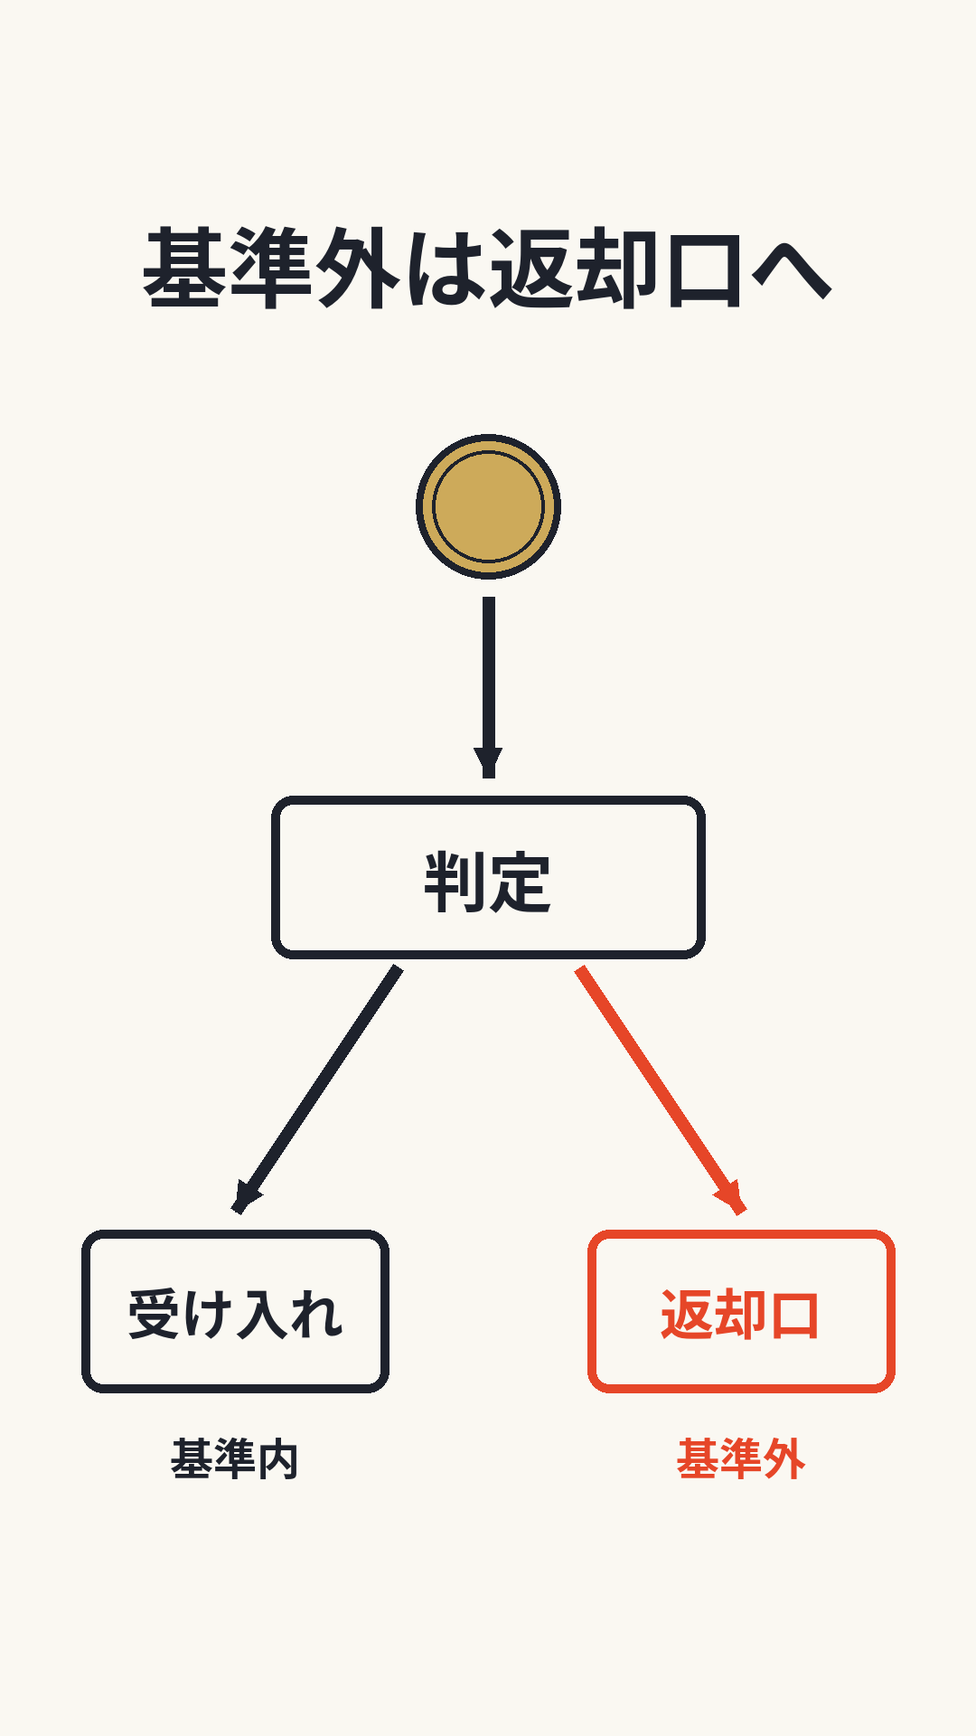
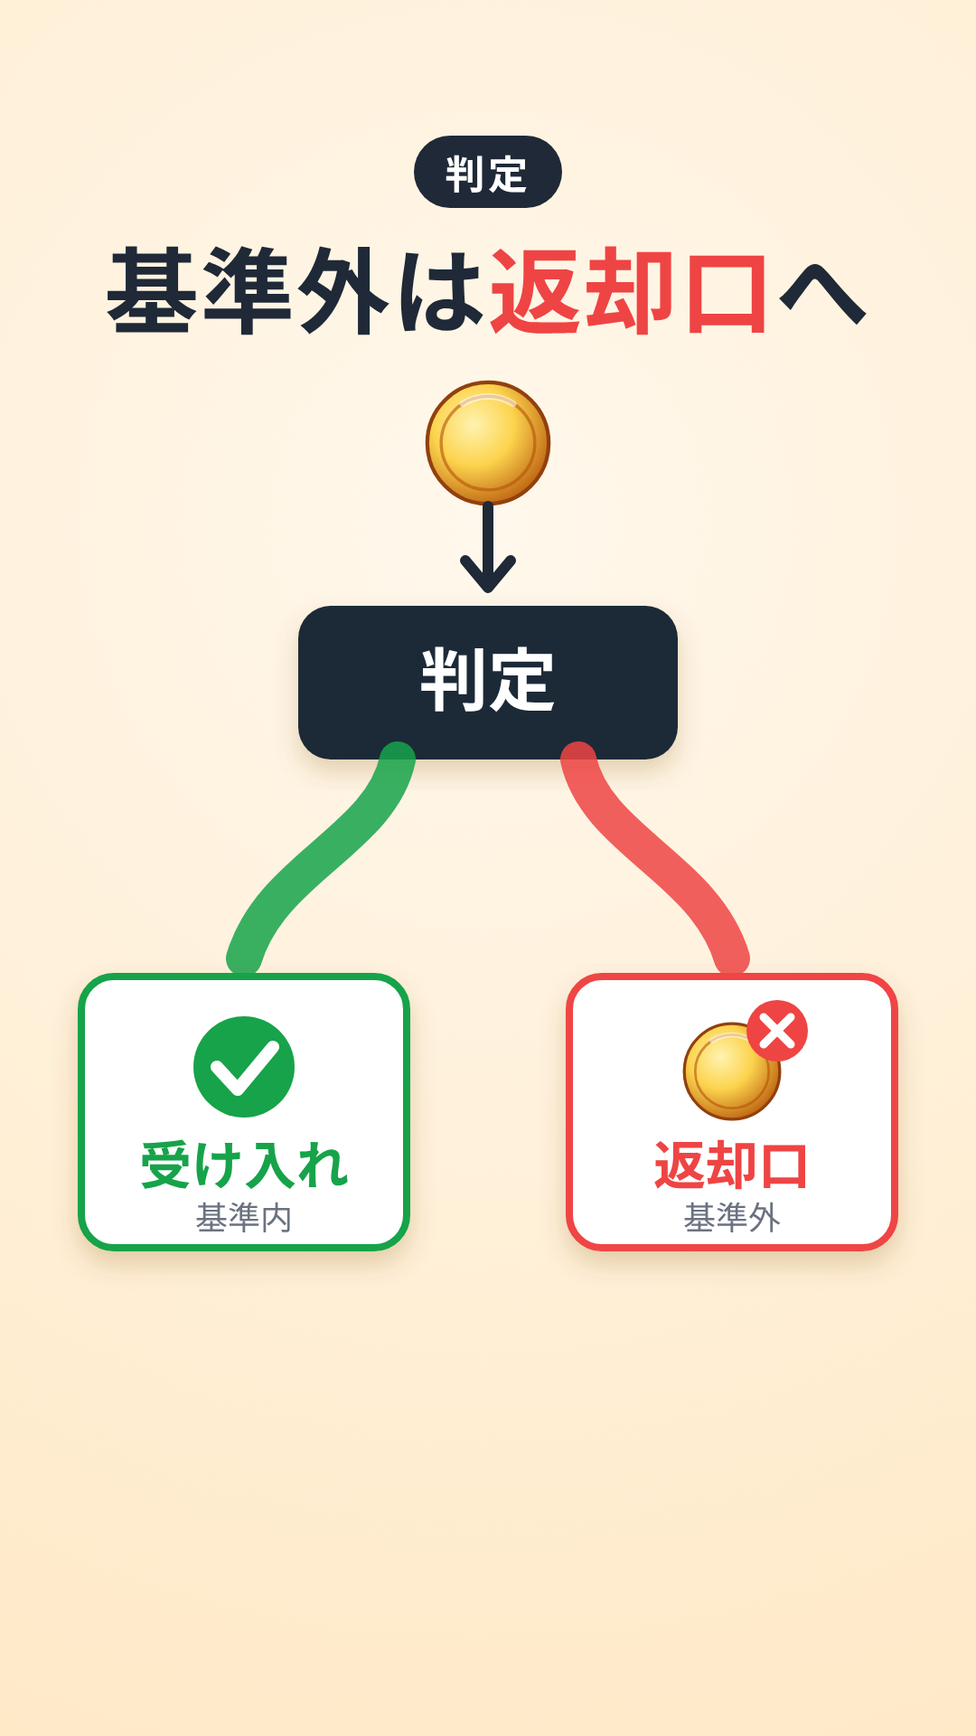
図解をHTML/SVG描画に変更して質を改善、部門の合格基準と音声確認の関門を追加
Claude-Session: https://claude.ai/code/session_012FUevStteJV7VRepsubg93

diff --git a/scripts/figures/v001/fig3_coil.html b/scripts/figures/v001/fig3_coil.html
@@ -1,0 +1,37 @@
+<!doctype html><html><head><meta charset="utf-8"><link rel="stylesheet" href="../style.css"></head><body>
+<div class="head"><div class="step">検査 2</div><div class="title">磁界で<em>材質</em>を見る</div></div>
+<svg width="1080" height="1920"><defs>
+<radialGradient id="coin" cx="38%" cy="35%" r="75%"><stop offset="0" stop-color="#FFF3B0"/><stop offset=".45" stop-color="var(--gold1)"/><stop offset="1" stop-color="var(--gold2)"/></radialGradient>
+<linearGradient id="metal" x1="0" y1="0" x2="0" y2="1"><stop offset="0" stop-color="#E5E7EB"/><stop offset="1" stop-color="#9CA3AF"/></linearGradient>
+<linearGradient id="copper" x1="0" y1="0" x2="0" y2="1"><stop offset="0" stop-color="#FDBA74"/><stop offset=".5" stop-color="var(--copper1)"/><stop offset="1" stop-color="var(--copper2)"/></linearGradient>
+<filter id="sh" x="-20%" y="-20%" width="140%" height="140%"><feDropShadow dx="0" dy="14" stdDeviation="14" flood-color="#7c4a03" flood-opacity=".22"/></filter>
+<symbol id="c" viewBox="-100 -100 200 200"><circle r="96" fill="url(#coin)" stroke="#92400E" stroke-width="6"/><circle r="74" fill="none" stroke="#B45309" stroke-width="5" opacity=".6"/><path d="M-40,-62 A74,74 0 0 1 40,-62" stroke="#fff" stroke-width="10" fill="none" opacity=".55" stroke-linecap="round"/></symbol>
+</defs>
+<!-- 磁界の線 -->
+<g fill="none" stroke="var(--blue)" stroke-width="6" stroke-dasharray="18 14" opacity=".75">
+ <ellipse cx="540" cy="820" rx="210" ry="200"/><ellipse cx="540" cy="820" rx="300" ry="270"/><ellipse cx="540" cy="820" rx="390" ry="330"/>
+</g>
+<!-- 通路 -->
+<rect x="60" y="790" width="960" height="60" rx="12" fill="url(#metal)" stroke="#6B7280" stroke-width="4"/>
+<!-- コイル（銅線を巻いた形） -->
+<g filter="url(#sh)">
+ <rect x="400" y="740" width="280" height="160" rx="20" fill="#78350F" opacity=".25"/>
+</g>
+<g stroke-linecap="round" fill="none"><path d="M420,725 L420,915" stroke="#B45309" stroke-width="30"/><path d="M414,735 L414,905" stroke="#FCD34D" stroke-width="8" opacity=".8"/><path d="M460,725 L460,915" stroke="#B45309" stroke-width="30"/><path d="M454,735 L454,905" stroke="#FCD34D" stroke-width="8" opacity=".8"/><path d="M500,725 L500,915" stroke="#B45309" stroke-width="30"/><path d="M494,735 L494,905" stroke="#FCD34D" stroke-width="8" opacity=".8"/><path d="M540,725 L540,915" stroke="#B45309" stroke-width="30"/><path d="M534,735 L534,905" stroke="#FCD34D" stroke-width="8" opacity=".8"/><path d="M580,725 L580,915" stroke="#B45309" stroke-width="30"/><path d="M574,735 L574,905" stroke="#FCD34D" stroke-width="8" opacity=".8"/><path d="M620,725 L620,915" stroke="#B45309" stroke-width="30"/><path d="M614,735 L614,905" stroke="#FCD34D" stroke-width="8" opacity=".8"/><path d="M660,725 L660,915" stroke="#B45309" stroke-width="30"/><path d="M654,735 L654,905" stroke="#FCD34D" stroke-width="8" opacity=".8"/></g>
+<g filter="url(#sh)"><rect x="740" y="590" width="210" height="70" rx="16" fill="#fff"/></g>
+<text x="845" y="640" text-anchor="middle" class="tag" fill="var(--copper2)">コイル</text>
+<path d="M760,660 L680,725" stroke="var(--copper2)" stroke-width="6"/>
+<text x="900" y="520" text-anchor="middle" class="tag" fill="var(--blue)">磁界</text>
+<!-- 近づく硬貨 -->
+<g stroke="#D97706" stroke-width="10" stroke-linecap="round" opacity=".5"><line x1="70" y1="700" x2="160" y2="700"/><line x1="90" y1="740" x2="170" y2="740"/></g>
+<use href="#c" x="180" y="640" width="170" height="170"/>
+<!-- 変化のイメージ -->
+<g filter="url(#sh)"><rect x="80" y="1100" width="430" height="310" rx="32" fill="#fff"/><rect x="570" y="1100" width="430" height="310" rx="32" fill="#fff"/></g>
+<rect x="130" y="1240" width="330" height="70" fill="#DCFCE7"/><rect x="620" y="1240" width="330" height="70" fill="#DCFCE7"/>
+<path d="M130,1350 C200,1350 230,1270 295,1270 C360,1270 390,1350 460,1350" fill="none" stroke="#16A34A" stroke-width="10" stroke-linecap="round"/>
+<path d="M620,1350 C690,1350 720,1180 785,1180 C850,1180 880,1350 950,1350" fill="none" stroke="var(--accent)" stroke-width="10" stroke-linecap="round"/>
+<text x="295" y="1185" text-anchor="middle" class="tag" fill="#16A34A">本物</text>
+<text x="785" y="1170" text-anchor="middle" font-size="40" font-weight="900" fill="var(--accent)">別の金属</text>
+<text x="540" y="1460" text-anchor="middle" font-size="36" fill="var(--muted)">変化の形はイメージ（電子式の選別装置の例）</text>
+</svg>
+</body></html>

diff --git a/scripts/figures/v001/fig1_question.html b/scripts/figures/v001/fig1_question.html
@@ -1,0 +1,36 @@
+<!doctype html><html><head><meta charset="utf-8"><link rel="stylesheet" href="../style.css"></head><body>
+<div class="head"><div class="title">なぜ<em>戻ってくる</em>？</div></div>
+<svg width="1080" height="1920"><defs>
+<radialGradient id="coin" cx="38%" cy="35%" r="75%"><stop offset="0" stop-color="#FFF3B0"/><stop offset=".45" stop-color="var(--gold1)"/><stop offset="1" stop-color="var(--gold2)"/></radialGradient>
+<linearGradient id="metal" x1="0" y1="0" x2="0" y2="1"><stop offset="0" stop-color="#E5E7EB"/><stop offset="1" stop-color="#9CA3AF"/></linearGradient>
+<linearGradient id="copper" x1="0" y1="0" x2="0" y2="1"><stop offset="0" stop-color="#FDBA74"/><stop offset=".5" stop-color="var(--copper1)"/><stop offset="1" stop-color="var(--copper2)"/></linearGradient>
+<filter id="sh" x="-20%" y="-20%" width="140%" height="140%"><feDropShadow dx="0" dy="14" stdDeviation="14" flood-color="#7c4a03" flood-opacity=".22"/></filter>
+<symbol id="c" viewBox="-100 -100 200 200"><circle r="96" fill="url(#coin)" stroke="#92400E" stroke-width="6"/><circle r="74" fill="none" stroke="#B45309" stroke-width="5" opacity=".6"/><path d="M-40,-62 A74,74 0 0 1 40,-62" stroke="#fff" stroke-width="10" fill="none" opacity=".55" stroke-linecap="round"/></symbol>
+</defs>
+<g filter="url(#sh)">
+ <rect x="200" y="430" width="560" height="960" rx="46" fill="#DC2626"/>
+ <rect x="200" y="430" width="560" height="960" rx="46" fill="url(#metal)" opacity=".08"/>
+ <rect x="240" y="470" width="480" height="470" rx="24" fill="#F8FAFC"/>
+</g>
+<!-- 商品見本（ロゴなし） -->
+<g>
+ <g transform="translate(290,520)"><rect width="70" height="150" rx="22" fill="#38BDF8"/><rect x="18" y="-26" width="34" height="30" rx="8" fill="#0EA5E9"/><rect x="0" y="55" width="70" height="40" fill="#fff" opacity=".7"/></g>
+ <g transform="translate(400,520)"><rect width="70" height="150" rx="22" fill="#F97316"/><rect x="18" y="-26" width="34" height="30" rx="8" fill="#EA580C"/><rect x="0" y="55" width="70" height="40" fill="#fff" opacity=".7"/></g>
+ <g transform="translate(510,520)"><rect width="70" height="150" rx="22" fill="#22C55E"/><rect x="18" y="-26" width="34" height="30" rx="8" fill="#16A34A"/><rect x="0" y="55" width="70" height="40" fill="#fff" opacity=".7"/></g>
+ <g transform="translate(620,520)"><rect width="70" height="150" rx="22" fill="#A855F7"/><rect x="18" y="-26" width="34" height="30" rx="8" fill="#9333EA"/><rect x="0" y="55" width="70" height="40" fill="#fff" opacity=".7"/></g>
+ <g fill="#94A3B8"><circle cx="325" cy="710" r="14"/><circle cx="435" cy="710" r="14"/><circle cx="545" cy="710" r="14"/><circle cx="655" cy="710" r="14"/></g>
+ <rect x="270" y="760" width="420" height="140" rx="18" fill="#E2E8F0"/>
+ <text x="480" y="848" text-anchor="middle" font-size="44" font-weight="900" fill="#64748B">ドリンク</text>
+</g>
+<!-- 投入口・返却口 -->
+<rect x="600" y="990" width="110" height="140" rx="16" fill="#1F2937"/>
+<rect x="640" y="1015" width="30" height="90" rx="10" fill="#F59E0B"/>
+<rect x="560" y="1190" width="170" height="110" rx="20" fill="#111827"/>
+<rect x="575" y="1205" width="140" height="60" rx="12" fill="#374151"/>
+<!-- 戻ってきた硬貨 -->
+<g stroke="var(--accent)" stroke-width="12" stroke-linecap="round"><line x1="770" y1="1170" x2="820" y2="1140"/><line x1="790" y1="1230" x2="850" y2="1225"/><line x1="770" y1="1290" x2="820" y2="1315"/></g>
+<use href="#c" x="840" y="1150" width="150" height="150" transform="rotate(-12 915 1225)"/>
+<!-- 吹き出し -->
+<g filter="url(#sh)"><circle cx="890" cy="900" r="110" fill="#fff"/><path d="M840,995 L870,1060 L905,1000 Z" fill="#fff"/></g>
+<text x="890" y="945" text-anchor="middle" font-size="130" font-weight="900" fill="var(--accent)">?</text>
+</svg></body></html>

diff --git a/scripts/figures/v001/fig4_sort.html b/scripts/figures/v001/fig4_sort.html
@@ -1,0 +1,28 @@
+<!doctype html><html><head><meta charset="utf-8"><link rel="stylesheet" href="../style.css"></head><body>
+<div class="head"><div class="step">判定</div><div class="title">基準外は<em>返却口</em>へ</div></div>
+<svg width="1080" height="1920"><defs>
+<radialGradient id="coin" cx="38%" cy="35%" r="75%"><stop offset="0" stop-color="#FFF3B0"/><stop offset=".45" stop-color="var(--gold1)"/><stop offset="1" stop-color="var(--gold2)"/></radialGradient>
+<linearGradient id="metal" x1="0" y1="0" x2="0" y2="1"><stop offset="0" stop-color="#E5E7EB"/><stop offset="1" stop-color="#9CA3AF"/></linearGradient>
+<linearGradient id="copper" x1="0" y1="0" x2="0" y2="1"><stop offset="0" stop-color="#FDBA74"/><stop offset=".5" stop-color="var(--copper1)"/><stop offset="1" stop-color="var(--copper2)"/></linearGradient>
+<filter id="sh" x="-20%" y="-20%" width="140%" height="140%"><feDropShadow dx="0" dy="14" stdDeviation="14" flood-color="#7c4a03" flood-opacity=".22"/></filter>
+<symbol id="c" viewBox="-100 -100 200 200"><circle r="96" fill="url(#coin)" stroke="#92400E" stroke-width="6"/><circle r="74" fill="none" stroke="#B45309" stroke-width="5" opacity=".6"/><path d="M-40,-62 A74,74 0 0 1 40,-62" stroke="#fff" stroke-width="10" fill="none" opacity=".55" stroke-linecap="round"/></symbol>
+</defs>
+<use href="#c" x="470" y="420" width="140" height="140"/>
+<path d="M540,560 L540,640" stroke="var(--ink)" stroke-width="12" stroke-linecap="round"/><path d="M515,620 L540,650 L565,620" fill="none" stroke="var(--ink)" stroke-width="12" stroke-linecap="round" stroke-linejoin="round"/>
+<g filter="url(#sh)"><rect x="330" y="670" width="420" height="170" rx="36" fill="var(--ink)"/></g>
+<text x="540" y="780" text-anchor="middle" font-size="76" font-weight="900" fill="#fff">判定</text>
+<!-- 分かれ道 -->
+<path d="M440,840 C420,930 300,960 270,1060" fill="none" stroke="#16A34A" stroke-width="40" stroke-linecap="round" opacity=".85"/>
+<path d="M640,840 C660,930 780,960 810,1060" fill="none" stroke="var(--accent)" stroke-width="40" stroke-linecap="round" opacity=".85"/>
+<!-- 受け入れ -->
+<g filter="url(#sh)"><rect x="90" y="1080" width="360" height="300" rx="36" fill="#fff" stroke="#16A34A" stroke-width="8"/></g>
+<circle cx="270" cy="1180" r="56" fill="#16A34A"/><path d="M240,1180 L263,1205 L302,1158" fill="none" stroke="#fff" stroke-width="14" stroke-linecap="round" stroke-linejoin="round"/>
+<text x="270" y="1310" text-anchor="middle" font-size="58" font-weight="900" fill="#16A34A">受け入れ</text>
+<text x="270" y="1360" text-anchor="middle" font-size="36" fill="var(--muted)">基準内</text>
+<!-- 返却口 -->
+<g filter="url(#sh)"><rect x="630" y="1080" width="360" height="300" rx="36" fill="#fff" stroke="var(--accent)" stroke-width="8"/></g>
+<use href="#c" x="755" y="1130" width="110" height="110"/>
+<circle cx="860" cy="1140" r="34" fill="var(--accent)"/><path d="M845,1125 L875,1155 M875,1125 L845,1155" stroke="#fff" stroke-width="9" stroke-linecap="round"/>
+<text x="810" y="1310" text-anchor="middle" font-size="58" font-weight="900" fill="var(--accent)">返却口</text>
+<text x="810" y="1360" text-anchor="middle" font-size="36" fill="var(--muted)">基準外</text>
+</svg></body></html>

diff --git a/scripts/figures/v001/fig2_size.html b/scripts/figures/v001/fig2_size.html
@@ -1,0 +1,31 @@
+<!doctype html><html><head><meta charset="utf-8"><link rel="stylesheet" href="../style.css"></head><body>
+<div class="head"><div class="step">検査 1</div><div class="title">大きさと<em>厚み</em></div></div>
+<svg width="1080" height="1920"><defs>
+<radialGradient id="coin" cx="38%" cy="35%" r="75%"><stop offset="0" stop-color="#FFF3B0"/><stop offset=".45" stop-color="var(--gold1)"/><stop offset="1" stop-color="var(--gold2)"/></radialGradient>
+<linearGradient id="metal" x1="0" y1="0" x2="0" y2="1"><stop offset="0" stop-color="#E5E7EB"/><stop offset="1" stop-color="#9CA3AF"/></linearGradient>
+<linearGradient id="copper" x1="0" y1="0" x2="0" y2="1"><stop offset="0" stop-color="#FDBA74"/><stop offset=".5" stop-color="var(--copper1)"/><stop offset="1" stop-color="var(--copper2)"/></linearGradient>
+<filter id="sh" x="-20%" y="-20%" width="140%" height="140%"><feDropShadow dx="0" dy="14" stdDeviation="14" flood-color="#7c4a03" flood-opacity=".22"/></filter>
+<symbol id="c" viewBox="-100 -100 200 200"><circle r="96" fill="url(#coin)" stroke="#92400E" stroke-width="6"/><circle r="74" fill="none" stroke="#B45309" stroke-width="5" opacity=".6"/><path d="M-40,-62 A74,74 0 0 1 40,-62" stroke="#fff" stroke-width="10" fill="none" opacity=".55" stroke-linecap="round"/></symbol>
+</defs>
+<!-- レール -->
+<g filter="url(#sh)"><path d="M80,640 L1000,1010 L1000,1050 L80,680 Z" fill="url(#metal)" stroke="#6B7280" stroke-width="4"/></g>
+<!-- 転がる硬貨 -->
+<g stroke="#D97706" stroke-width="10" stroke-linecap="round" opacity=".5"><line x1="230" y1="590" x2="330" y2="630"/><line x1="210" y1="650" x2="320" y2="694"/></g>
+<use href="#c" x="370" y="560" width="220" height="220"/>
+<!-- センサー -->
+<g filter="url(#sh)">
+ <rect x="410" y="440" width="140" height="70" rx="16" fill="var(--blue)"/>
+ <rect x="410" y="800" width="140" height="70" rx="16" fill="var(--blue)"/>
+</g>
+<g stroke="var(--blue-l)" stroke-width="8" stroke-dasharray="14 12"><line x1="480" y1="510" x2="480" y2="555"/><line x1="480" y1="785" x2="480" y2="800"/></g>
+<text x="650" y="490" class="tag" fill="var(--blue)">センサー</text>
+<!-- 直径の寸法 -->
+<g stroke="var(--ink)" stroke-width="6"><line x1="320" y1="560" x2="320" y2="780"/><line x1="300" y1="560" x2="340" y2="560"/><line x1="300" y1="780" x2="340" y2="780"/></g>
+<rect x="150" y="640" width="140" height="64" rx="14" fill="var(--ink)"/><text x="220" y="688" text-anchor="middle" class="tag" fill="#fff">直径</text>
+<!-- 厚みの拡大カード -->
+<g filter="url(#sh)"><rect x="180" y="1130" width="720" height="300" rx="36" fill="#fff"/></g>
+<text x="240" y="1200" font-size="40" font-weight="700" fill="var(--muted)">横から見ると</text>
+<rect x="590" y="1170" width="46" height="220" rx="10" fill="url(#coin)" stroke="#92400E" stroke-width="5"/>
+<g stroke="var(--accent)" stroke-width="8" stroke-linecap="round"><line x1="520" y1="1280" x2="580" y2="1280"/><line x1="706" y1="1280" x2="646" y2="1280"/><path d="M560,1262 L582,1280 L560,1298" fill="none"/><path d="M666,1262 L644,1280 L666,1298" fill="none"/></g>
+<text x="300" y="1300" font-size="72" font-weight="900" fill="var(--accent)">厚み</text>
+</svg></body></html>

diff --git a/scripts/figures/style.css b/scripts/figures/style.css
@@ -1,0 +1,21 @@
+/* 図解の共通スタイル（色・文字）。動画ごとのHTMLから読み込む */
+:root{
+  --bg1:#FFF8EC; --bg2:#FFE9C7;          /* 背景グラデーション */
+  --ink:#1F2937; --muted:#6B7280;
+  --accent:#EF4444;                      /* 強調は1枚1か所 */
+  --blue:#2563EB; --blue-l:#93C5FD;      /* 磁界・センサー */
+  --gold1:#FCD34D; --gold2:#B45309;      /* 硬貨 */
+  --copper1:#F59E0B; --copper2:#92400E;  /* コイル */
+}
+*{margin:0;padding:0;box-sizing:border-box}
+html,body{width:1080px;height:1920px;overflow:hidden}
+body{font-family:"Noto Sans CJK JP","Noto Sans JP",sans-serif;color:var(--ink);
+  background:radial-gradient(circle at 50% 30%,var(--bg1) 0%,var(--bg2) 100%)}
+.head{position:absolute;top:150px;width:100%;text-align:center}
+.step{display:inline-block;background:var(--ink);color:#fff;font-weight:900;font-size:44px;
+  padding:8px 34px;border-radius:999px;letter-spacing:.08em}
+.title{margin-top:26px;font-size:104px;font-weight:900;letter-spacing:.02em;line-height:1.15}
+.title em{font-style:normal;color:var(--accent)}
+svg{position:absolute;left:0;top:0}
+.tag{font-weight:900;font-size:46px}
+.note{position:absolute;bottom:230px;width:100%;text-align:center;font-size:38px;color:var(--muted)}

diff --git a/scripts/figures/render_html.js b/scripts/figures/render_html.js
@@ -1,0 +1,17 @@
+// 図解画像生成部門：HTML/SVGで描いた図を 1080x1920 のPNGにする（Chromiumで描画）
+// 使い方: node scripts/figures/render_html.js <出力フォルダ> <図1.html> [<図2.html> ...]
+const { chromium } = require('playwright');
+const path = require('path');
+(async () => {
+  const [outDir, ...files] = process.argv.slice(2);
+  const browser = await chromium.launch();
+  const page = await browser.newPage({ viewport: { width: 1080, height: 1920 }, deviceScaleFactor: 1 });
+  for (const f of files) {
+    await page.goto('file://' + path.resolve(f));
+    await page.evaluate(() => document.fonts.ready);
+    const out = path.join(outDir, path.basename(f, '.html') + '.png');
+    await page.screenshot({ path: out });
+    console.log('出力:', out);
+  }
+  await browser.close();
+})();

diff --git a/scripts/render_short.py b/scripts/render_short.py
@@ -22,8 +22,8 @@ from common import W, H, BG, INK, font  # noqa: E402
 FPS = 30
 GAP = 0.25              # 文と文の間（秒）
 SR = 48000
-FIG_SCALE = 0.74        # 図を縮めて、下に字幕の場所を空ける
-SUB_TOP = 1470          # 字幕の上端。下の約330pxはShortsのボタン・タイトルに隠れるため空ける（推測）
+FIG_SCALE = 1.0         # HTML版の図は字幕の場所（下部）を空けて描くので縮めない。Pillow版は0.74
+SUB_TOP = 1520          # 字幕の上端。下の約330pxはShortsのボタン・タイトルに隠れるため空ける（推測）
 SUB_CHARS = 14          # 字幕1行の最大文字数
 
 
@@ -38,9 +38,20 @@ def tts_openjtalk(text, path, speed):
     with tempfile.NamedTemporaryFile("w", suffix=".txt", delete=False, encoding="utf-8") as f:
         f.write(text)
     raw = path + ".raw.wav"
-    run(["open_jtalk", "-x", dic, "-m", voice, "-r", str(speed), "-ow", raw, f.name])
+    trace = path + ".trace.txt"
+    run(["open_jtalk", "-x", dic, "-m", voice, "-r", str(speed), "-ow", raw, "-ot", trace, f.name])
     run(["ffmpeg", "-y", "-i", raw, "-ar", str(SR), "-ac", "1", path])
     os.remove(raw); os.remove(f.name)
+    return reading(trace)
+
+
+def reading(trace):
+    """open_jtalk の出力ラベルから音素列を取り出す（ナレーション部門の読み確認用）。| は息継ぎ"""
+    import re
+    lab = open(trace, encoding="utf-8", errors="ignore").read().split("[Output label]")[-1]
+    lab = lab.split("\n[")[0]                     # 次の見出しまで（同じラベルが2回出るため）
+    ph = re.findall(r"\^([a-zA-Z]+)-", lab)
+    return " ".join(ph).replace("sil", "").replace("pau", "|").replace("xx", "").strip()
 
 
 def wav_seconds(path):
@@ -103,7 +114,7 @@ def frame(fig_path, text, out_path):
     img = Image.new("RGB", (W, H), BG)
     fig = Image.open(fig_path).convert("RGB")
     fw, fh = int(W * FIG_SCALE), int(H * FIG_SCALE)
-    img.paste(fig.resize((fw, fh), Image.LANCZOS), ((W - fw) // 2, 20))
+    img.paste(fig.resize((fw, fh), Image.LANCZOS), ((W - fw) // 2, 0 if FIG_SCALE == 1.0 else 20))
     d = ImageDraw.Draw(img)
     f = font(58)
     rows = wrap(text.rstrip("。"))
@@ -128,10 +139,11 @@ def main(plan_path):
     work = os.path.join(out_dir, "work"); os.makedirs(work, exist_ok=True)
     speed = plan.get("voice", {}).get("speed", 1.0)
 
-    segs, t = [], 0.0
+    segs, t, readings = [], 0.0, []
     for i, line in enumerate(plan["lines"]):
         wav = os.path.join(work, f"v{i:02}.wav")
-        tts_openjtalk(line.get("say", line["text"]), wav, speed)  # say：読み間違い対策の読み方
+        ph = tts_openjtalk(line.get("say", line["text"]), wav, speed)  # say：読み間違い対策の読み方
+        readings.append(f"{i+1}. {line['text']}\n   読み: {ph}\n")
         dur = wav_seconds(wav) + GAP
         pieces = chunks(line["text"])
         voiced = wav_seconds(wav)
@@ -148,6 +160,10 @@ def main(plan_path):
             st += d
         t += dur
     total = t + 0.5
+
+    # ナレーション部門の確認表：全文の読み（音素）。読み違いはここで探し、plan.json の say で直す
+    with open(os.path.join(out_dir, "readings.txt"), "w", encoding="utf-8") as f:
+        f.write("".join(readings))
 
     # 字幕ファイル（YouTubeにアップロードする用。画面には焼き込み済み）
     with open(os.path.join(out_dir, "final.srt"), "w", encoding="utf-8") as f:

diff --git a/docs/02_departments.md b/docs/02_departments.md
@@ -58,3 +58,22 @@
 - 勤務先・工場・設備が特定できる映像や話は禁止
 - 他人の動画・画像・イラストは使わない。図は自作する
 - 副業規定の確認が済むまで公開しない
+
+## 部門の品質基準（2026-11-22 追加：001の試作で部門が機能しなかった反省）
+001の1回目は、1人（AI）が全部門を兼ねたため、自分の成果物を甘く通してしまった。
+- 図解：線画のまま「事実が合っているか」だけを見て、見た目の質を判定していなかった
+- 音声：8語の読みしか確認せず、全文の読みと、聞いたときの自然さを誰も確認していなかった（AIは音を聞けない）
+
+### 各部門は「合格基準」と「見つけた問題」を必ず報告する
+問題が0件の場合も、何を確認して0件だったかを書く。統括は報告がない部門を通さない。
+
+| 部門 | 合格基準 | AIが確認できること | 人が確認すること |
+|---|---|---|---|
+| ⑫ 図解 | ①立体感のある塗り（グラデーション・影）②色は主色＋強調1色 ③文字が縮小表示（432px幅）で読める ④図同士・文字・字幕が重ならない ⑤タイトルと字幕の場所を空けている | 縮小した連続画像を見て①〜⑤を判定 | 見た目の好み |
+| ⑦ ナレーション | ①全文の読み（音素）に誤りがない ②固有名詞・専門用語の読みを辞書と照合 ③聞いて不自然な箇所がない | ①② readings.txt で全文確認 | **③は人が聞く**（台本承認とは別の「音声確認」を関門に追加） |
+| ⑤ 編集 | ①字幕が2行以内 ②字幕と声の時刻のずれ0.3秒以内（推測値）③音量 -14 LUFS前後 | ①③は自動計測、②は字幕時刻を音声の長さから計算 | スマホでの見え方（ボタンと字幕の重なり）|
+| ④ 内容精度 | 全文に出典、または言い換え・削除の判定 | 出典照合 | 最終承認 |
+
+### 図解の作り方（2026-11-22 変更）
+- HTML/SVG で描き、Chromium で PNG にする（`scripts/figures/v001/` が見本。共通の色・文字は `scripts/figures/style.css`）
+- Pillow の線画（`scripts/figures/common.py`）は品質不足のため使わない
